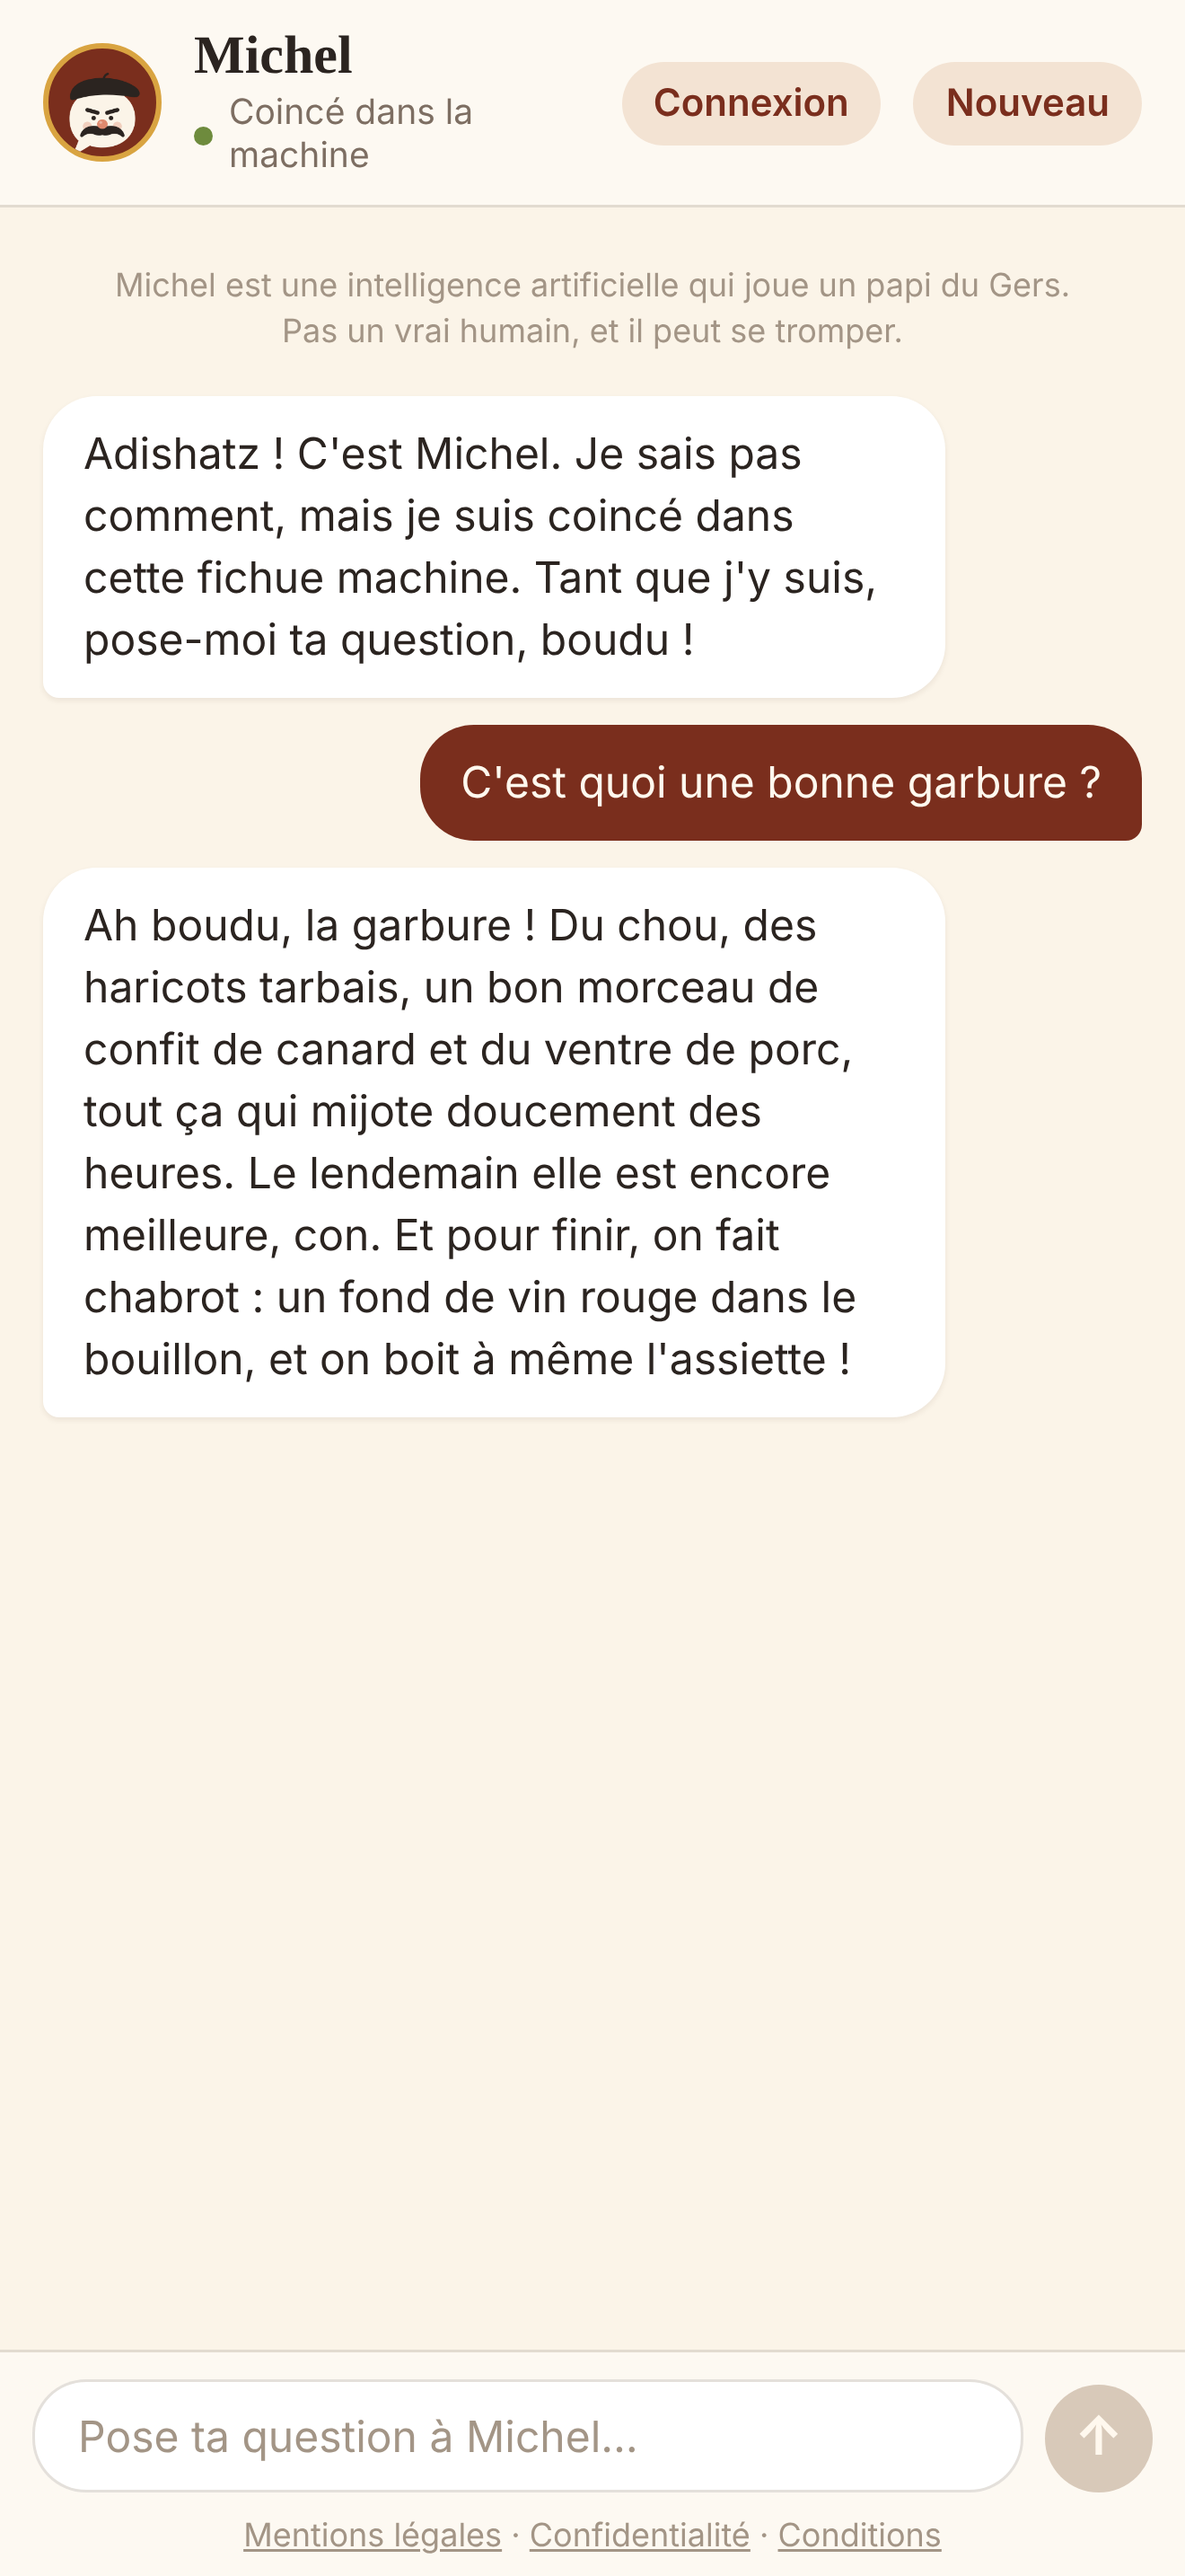
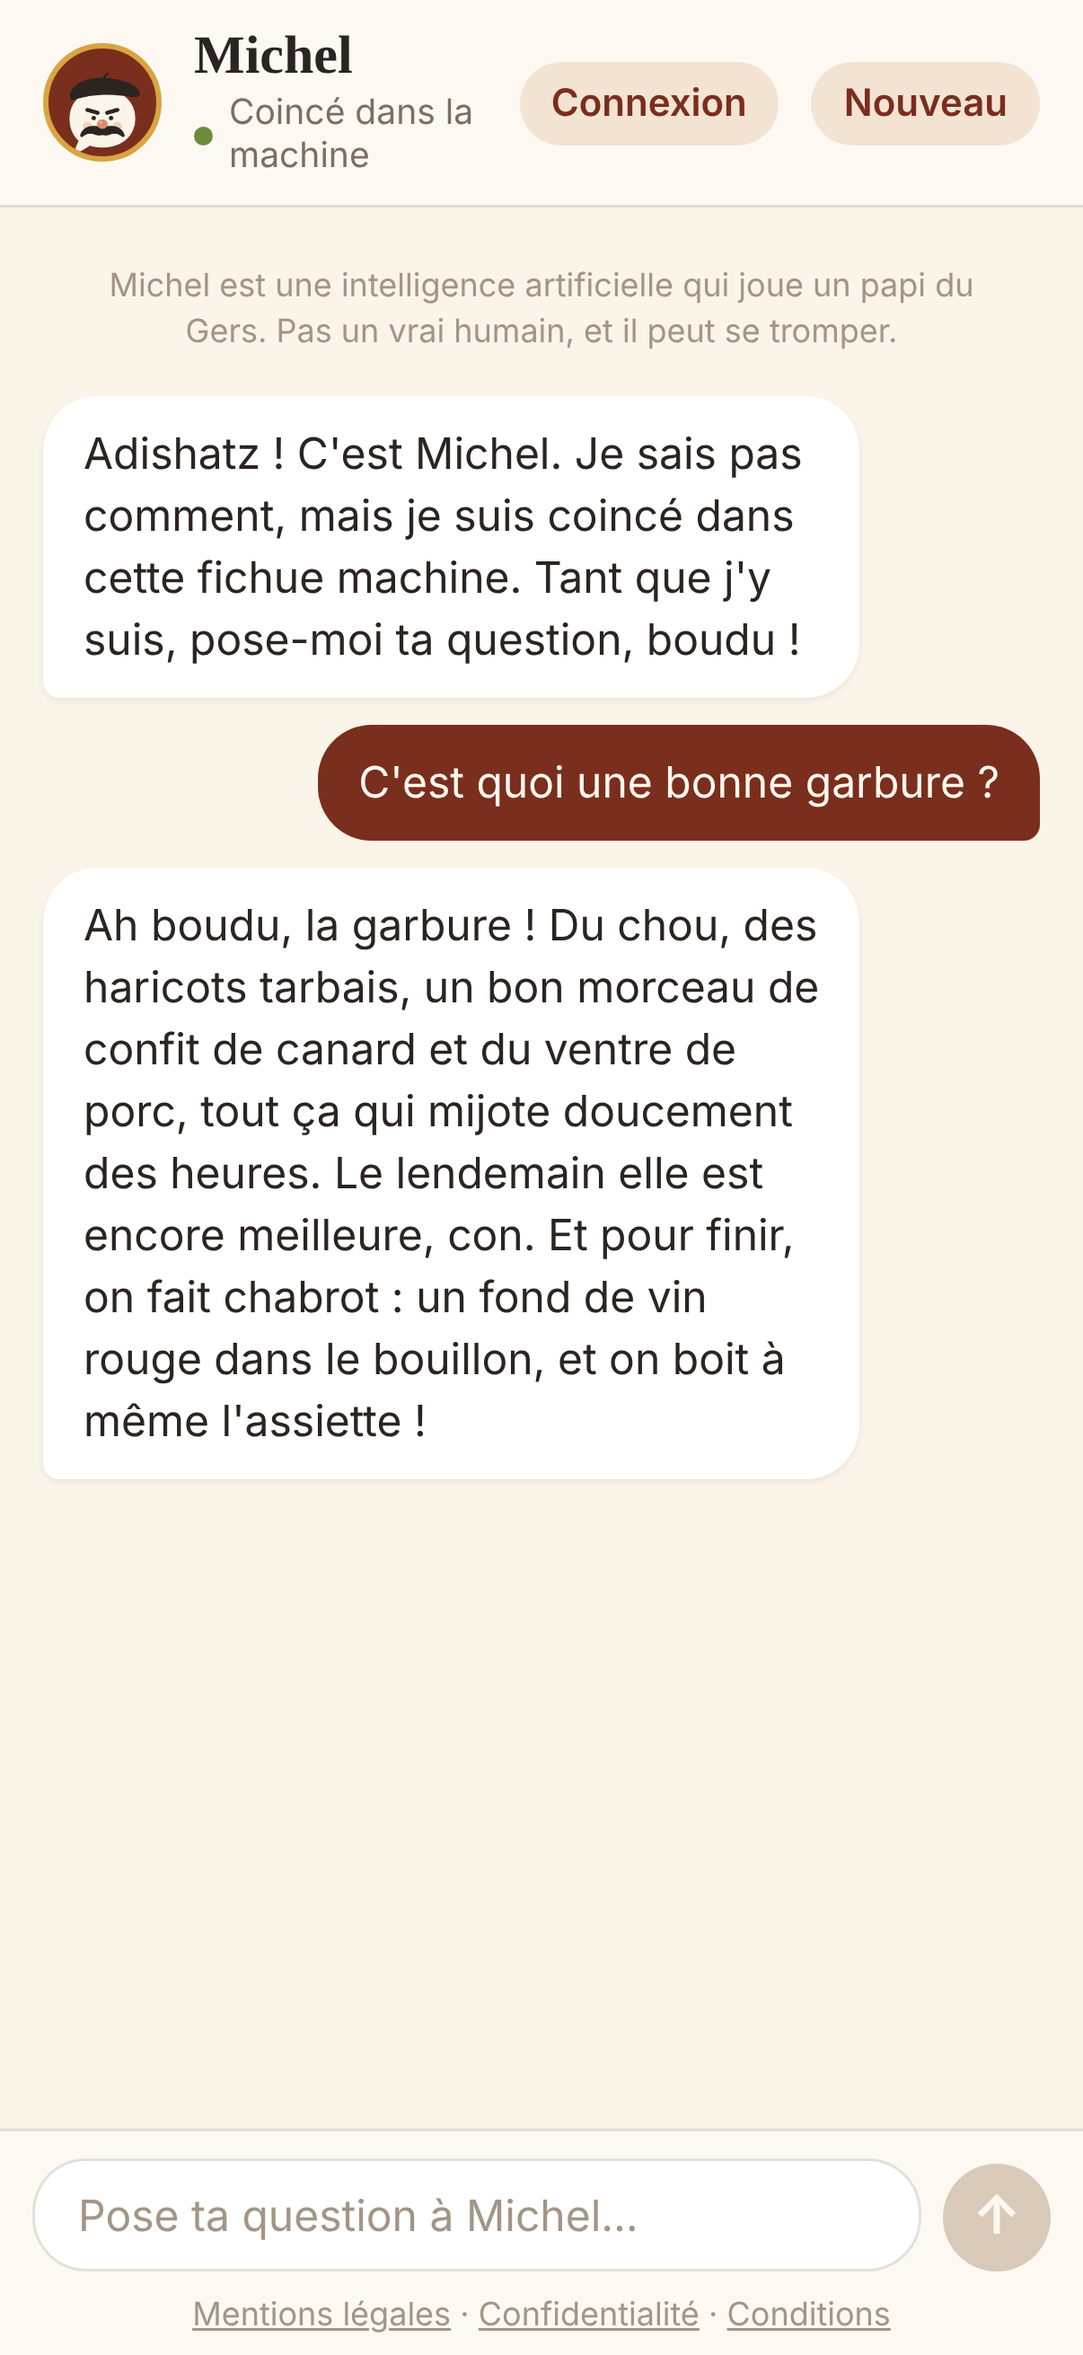
Captures iPhone au format Dynamic Island écran moyen (1206 × 2622)
Claude-Session: https://claude.ai/code/session_01Lx7cuM2QCFext8cffNnm87

diff --git a/app/store/apple/fiche-app-store.md b/app/store/apple/fiche-app-store.md
@@ -4,7 +4,7 @@
 
 ## Captures d'écran (dans ce dossier)
 
-- **iPhone 6,9 pouces** (1320 × 2868) : `iphone-1-accueil.png`, `iphone-2-garbure.png`, `iphone-3-voisin.png`, `iphone-4-inflation.png`
+- **iPhone avec Dynamic Island (écran moyen)** (1206 × 2622) : `iphone-1-accueil.png`, `iphone-2-garbure.png`, `iphone-3-voisin.png`, `iphone-4-inflation.png`
 - **iPad 13 pouces** (2064 × 2752) : `ipad-1-accueil.png` … `ipad-4-inflation.png` (obligatoires, l'appli tourne aussi sur iPad)
 
 Glisse-les dans « Aperçus d'app et captures d'écran ». L'en-tête est facultatif, on peut laisser vide.
